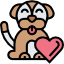
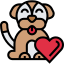
Update color palette

diff --git a/src/views/signup_screen.js b/src/views/signup_screen.js
@@ -11,6 +11,7 @@ import InputScrollView from 'react-native-input-scroll-view';
 import { Button, Input } from 'react-native-elements';
 import Icon from 'react-native-vector-icons/MaterialCommunityIcons';
 import firebase from '../../firestore';
+import colors from '../colors';
 
 const SCREEN_WIDTH = Dimensions.get('window').width;
 const SCREEN_HEIGHT = Dimensions.get('window').height;
@@ -74,11 +75,12 @@ const validateEmail = (email) => {
   return re.test(email);
 };
 
+
 class SignUpScreen extends Component {
   static navigationOptions = {
     title: 'InstaPet',
     headerTransparent: true,
-    headerTintColor: 'rgba(178, 91, 110, 0.5)',
+    headerTintColor: colors.red(1),
     headerTitleStyle: {
       color: 'white',
     },
@@ -219,7 +221,7 @@ class SignUpScreen extends Component {
                   leftIcon={(
                     <Icon
                       name="account"
-                      color="rgba(178, 91, 110, 0.5)"
+                      color={colors.green2(0.5)}
                       size={25}
                     />
                   )}
@@ -246,7 +248,7 @@ class SignUpScreen extends Component {
                   leftIcon={(
                     <Icon
                       name="email"
-                      color="rgba(178, 91, 110, 0.5)"
+                      color={colors.green2(0.5)}
                       size={25}
                     />
                   )}
@@ -277,7 +279,7 @@ class SignUpScreen extends Component {
                   leftIcon={(
                     <Icon
                       name="lock"
-                      color="rgba(178, 91, 110, 0.5)"
+                      color={colors.green2(0.5)}
                       size={25}
                     />
                   )}
@@ -307,7 +309,7 @@ class SignUpScreen extends Component {
                   leftIcon={(
                     <Icon
                       name="lock"
-                      color="rgba(178, 91, 110, 0.5)"
+                      color={colors.green2(0.5)}
                       size={25}
                     />
                   )}
@@ -342,7 +344,7 @@ class SignUpScreen extends Component {
                 buttonStyle={{
                   height: 50,
                   width: 300,
-                  backgroundColor: 'rgba(226, 117, 137, 1)',
+                  backgroundColor: colors.red(1),
                   borderWidth: 0,
                 }}
                 containerStyle={{ marginVertical: 70 }}

diff --git a/src/views/login_screen.js b/src/views/login_screen.js
@@ -10,6 +10,7 @@ import InputScrollView from 'react-native-input-scroll-view';
 
 import { Button, Input, Image } from 'react-native-elements';
 import Icon from 'react-native-vector-icons/MaterialCommunityIcons';
+import colors from '../colors';
 
 const SCREEN_WIDTH = Dimensions.get('window').width;
 const SCREEN_HEIGHT = Dimensions.get('window').height;
@@ -114,7 +115,7 @@ class LoginScreen extends Component {
                   leftIcon={(
                     <Icon
                       name="email"
-                      color="rgba(178, 91, 110, 0.5)"
+                      color={colors.green2(0.5)}
                       size={25}
                     />
                   )}
@@ -147,7 +148,7 @@ class LoginScreen extends Component {
                   leftIcon={(
                     <Icon
                       name="lock"
-                      color="rgba(178, 91, 110, 0.5)"
+                      color={colors.green2(0.5)}
                       size={25}
                     />
                   )}
@@ -171,7 +172,7 @@ class LoginScreen extends Component {
                 buttonStyle={{
                   height: 50,
                   width: 250,
-                  backgroundColor: 'rgba(226, 117, 137, 1)',
+                  backgroundColor: colors.red(1),
                   borderWidth: 0,
                 }}
                 containerStyle={{ marginVertical: 10 }}

diff --git a/src/views/launch_screen.js b/src/views/launch_screen.js
@@ -1,6 +1,32 @@
 import React, { Component } from 'react';
-import { View, Text } from 'react-native';
+import {
+  ActivityIndicator,
+  Dimensions,
+  ImageBackground,
+  StyleSheet,
+  View,
+} from 'react-native';
 import firebase from '../../firestore';
+import colors from '../colors';
+
+const BG_IMAGE = require('../../assets/launch-bg.jpg');
+
+const SCREEN_WIDTH = Dimensions.get('window').width;
+const SCREEN_HEIGHT = Dimensions.get('window').height;
+const styles = StyleSheet.create({
+  container: {
+    flex: 1,
+  },
+  bgImage: {
+    flex: 1,
+    top: 0,
+    left: 0,
+    width: SCREEN_WIDTH,
+    height: SCREEN_HEIGHT,
+    justifyContent: 'center',
+    alignItems: 'center',
+  },
+});
 
 class LaunchScreen extends Component {
   static navigationOptions = { header: null }
@@ -15,8 +41,10 @@ class LaunchScreen extends Component {
 
   render() {
     return (
-      <View style={{ flex: 1, backgroundColor: 'yellow' }}>
-        <Text>Loading...</Text>
+      <View style={styles.container}>
+        <ImageBackground source={BG_IMAGE} style={styles.bgImage}>
+          <ActivityIndicator size={64} color={colors.red(1)} />
+        </ImageBackground>
       </View>
     );
   }

diff --git a/src/colors.js b/src/colors.js
@@ -1,0 +1,6 @@
+export default {
+  grey: opacity => `rgba(87, 90, 94, ${opacity})`,
+  green1: opacity => `rgba(170, 223, 197, ${opacity})`,
+  green2: opacity => `rgba(222, 249, 208, ${opacity})`,
+  red: opacity => `rgba(225, 48, 69, ${opacity})`,
+};
